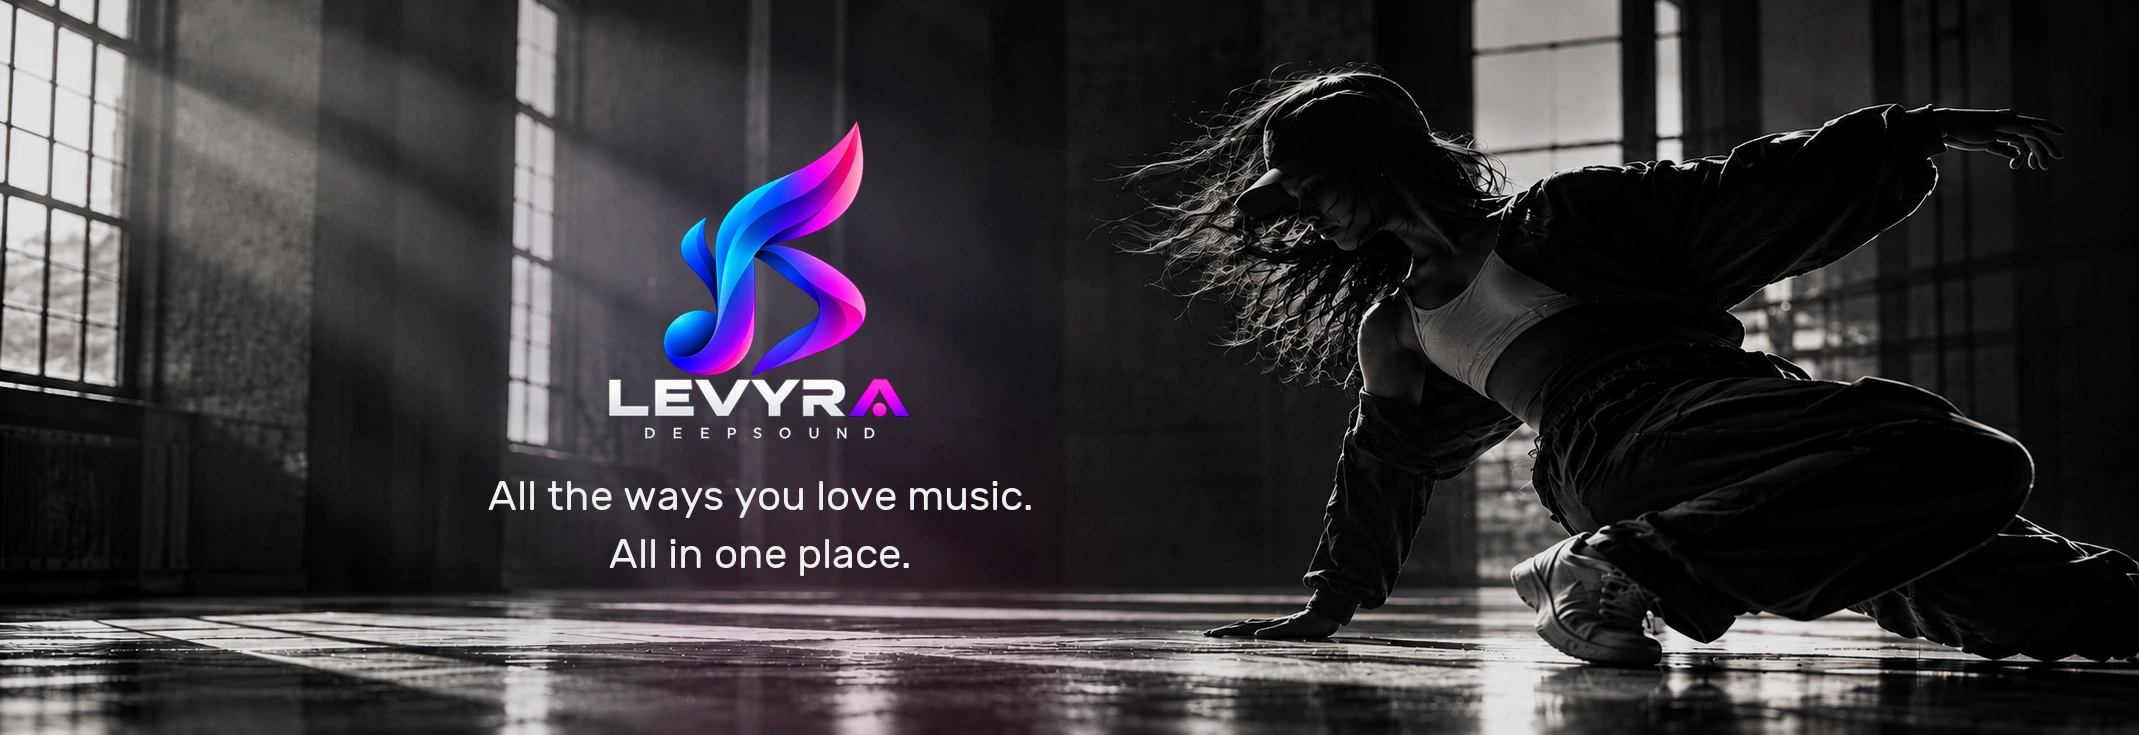
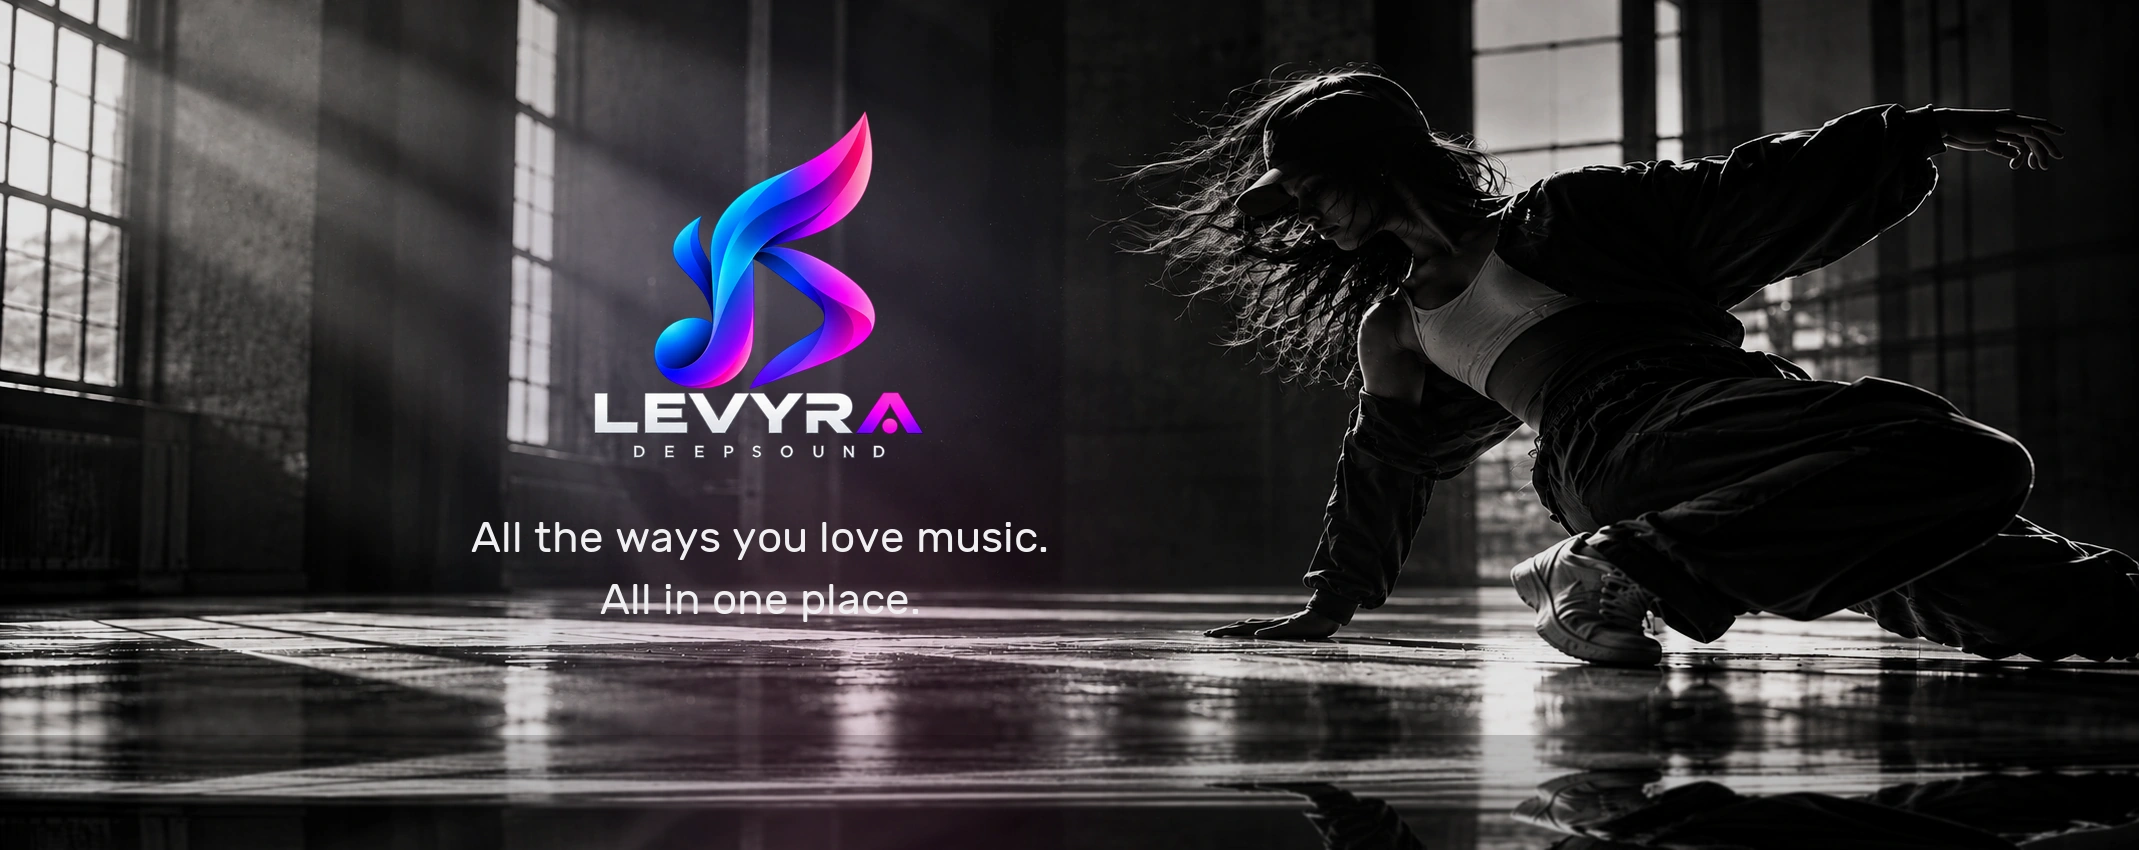
docs: enlarge README showcase hero

diff --git a/scripts/generate_showcase_assets.py b/scripts/generate_showcase_assets.py
@@ -465,20 +465,33 @@ M3_SHOWCASE_SPECS = [
 ]
 
 def generate_hero_panoramic_showcase():
-    hero_w, hero_h = 2139, 735
+    hero_w, hero_h = 2139, 850
     background_path = os.path.join(OUT_SHOWCASE_DIR, "levyra_dance_monochrome_bg.webp")
     if not os.path.exists(background_path):
         raise FileNotFoundError("Missing monochrome Levyra dance background")
     with Image.open(background_path) as background_source:
-        hero = background_source.convert("RGBA").resize((hero_w, hero_h), Image.Resampling.LANCZOS)
+        background = background_source.convert("RGBA")
+        scaled_h = round(background.height * hero_w / background.width)
+        background = background.resize((hero_w, scaled_h), Image.Resampling.LANCZOS)
+    hero = Image.new("RGBA", (hero_w, hero_h), (8, 8, 10, 255))
+    hero.paste(background, (0, 0))
+    if scaled_h < hero_h:
+        extension_h = hero_h - scaled_h
+        floor_source_h = min(scaled_h, max(180, extension_h * 2))
+        floor_extension = background.crop((0, scaled_h - floor_source_h, hero_w, scaled_h))
+        floor_extension = floor_extension.transpose(Image.Transpose.FLIP_TOP_BOTTOM)
+        floor_extension = floor_extension.resize((hero_w, extension_h), Image.Resampling.LANCZOS)
+        floor_extension = ImageEnhance.Brightness(floor_extension).enhance(0.82)
+        floor_extension = floor_extension.filter(ImageFilter.GaussianBlur(1.2))
+        hero.paste(floor_extension, (0, scaled_h))
     overlay = Image.new("RGBA", (hero_w, hero_h), (0, 0, 0, 28))
     hero.alpha_composite(overlay)
 
     tonal_glow = Image.new("RGBA", (hero_w, hero_h), (0, 0, 0, 0))
     tonal_draw = ImageDraw.Draw(tonal_glow)
     tonal_draw.ellipse((420, 35, 1090, 610), fill=(103, 80, 164, 42))
-    tonal_draw.ellipse((475, 455, 1060, 790), fill=(52, 183, 224, 28))
-    tonal_draw.ellipse((560, 470, 1160, 800), fill=(226, 42, 154, 24))
+    tonal_draw.ellipse((475, 455, 1060, 860), fill=(52, 183, 224, 28))
+    tonal_draw.ellipse((560, 470, 1160, 880), fill=(226, 42, 154, 24))
     tonal_glow = tonal_glow.filter(ImageFilter.GaussianBlur(105))
     hero.alpha_composite(tonal_glow)
     draw = ImageDraw.Draw(hero)
@@ -491,18 +504,18 @@ def generate_hero_panoramic_showcase():
         alpha_bbox = logo.getchannel("A").getbbox()
         if alpha_bbox:
             logo = logo.crop(alpha_bbox)
-        logo.thumbnail((430, 330), Image.Resampling.LANCZOS)
+        logo.thumbnail((445, 360), Image.Resampling.LANCZOS)
 
     lockup_center_x = 760
     logo_x = int(lockup_center_x - logo.width / 2)
-    hero.paste(logo, (logo_x, 120), logo)
+    hero.paste(logo, (logo_x, 110), logo)
 
-    tagline_font = get_font(42)
+    tagline_font = get_font(44)
     tagline_lines = ("All the ways you love music.", "All in one place.")
     for line_index, line in enumerate(tagline_lines):
         line_width = draw.textlength(line, font=tagline_font)
         draw.text(
-            (lockup_center_x - line_width / 2, 470 + line_index * 58),
+            (lockup_center_x - line_width / 2, 510 + line_index * 62),
             line,
             font=tagline_font,
             fill=(240, 240, 242, 242),

diff --git a/README.md b/README.md
@@ -118,7 +118,7 @@ Enhanced Audio is on by default and can be turned off in Audio Settings. Technic
 
 <div align="center">
 
-<a href="docs/assets/showcase/00_levyra_hero_dance_studio.webp"><img src="docs/assets/showcase/00_levyra_hero_dance_studio.webp?v=monochrome-editorial-v5" width="100%" alt="Levyra music player for Android and Windows" /></a>
+<a href="docs/assets/showcase/00_levyra_hero_dance_studio.webp"><img src="docs/assets/showcase/00_levyra_hero_dance_studio.webp?v=monochrome-editorial-v6" width="100%" alt="Levyra music player for Android and Windows" /></a>
 
 <p align="center">
   <sub>Browse radio and charts, open an artist, switch to video or follow synced lyrics. Your listening stats stay on your device.</sub>
